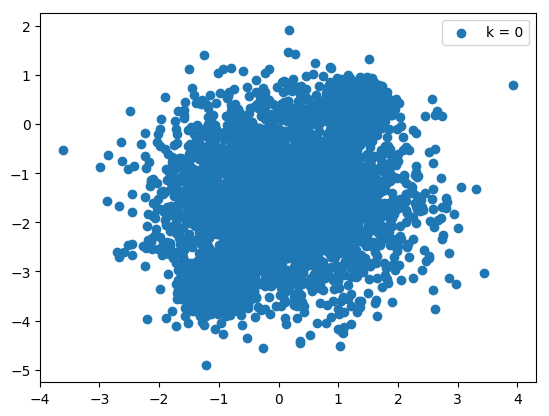
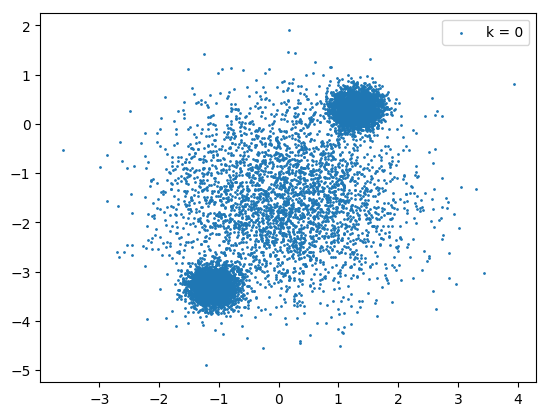
Plotting with smaller dots

diff --git a/plotting.py b/plotting.py
@@ -11,14 +11,14 @@ def line_plot(x, ys, labels, x_label, y_label, save_path):
 def k_means_plot_2d(x, assignments, k, save_path):
     plt.close()
     x_assigned = [x[assignments == i] for i in range(k)]
-    plots = [plt.scatter(x[:, 0], x[:, 1], label='k = %d' % i) for i, x in enumerate(x_assigned)]
+    plots = [plt.scatter(x[:, 0], x[:, 1], label='k = %d' % i, s=1) for i, x in enumerate(x_assigned)]
     plt.legend(handles=plots)
     save_plot(save_path)
 
 
 def data_plot_2d(x, save_path):
     plt.close()
-    plot = plt.scatter(x[:, 0], x[:, 1])
+    plot = plt.scatter(x[:, 0], x[:, 1], s=1)
     save_plot(save_path)
 
 
